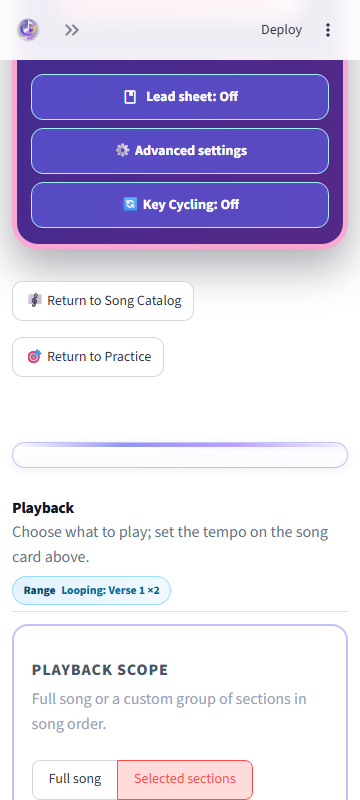
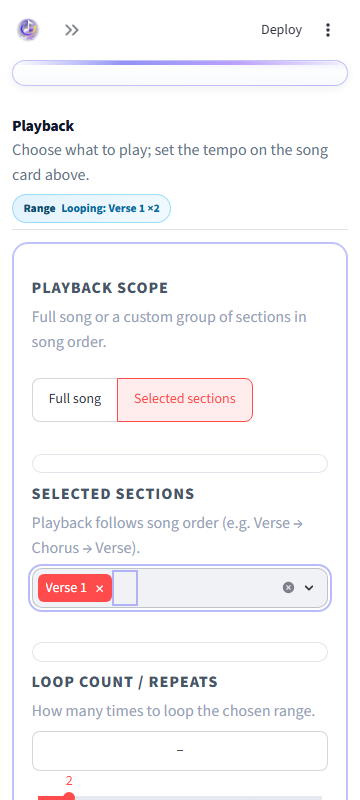
Selectors: 44 px touch targets on phones; Selected sections and refresh behaviour checked
- At max-width 640px the selectable buttons are 2.75rem (about 44 px) tall, the
  comfortable phone touch target the user asked for; desktop stays 2.5rem.
- Browser at 1280, 390 and 360 px: 23/25 per width. Backing's Selected sections
  still offers the song's individual sections (for Say: Intro, Chorus 1, Verse 2,
  Chorus 2, Bridge, Verse 3, Final Chorus).
- The two non-passing gates are refresh persistence of Section Focus and Playback
  scope. Unchanged dev resets both after a refresh as well (and resets the
  Creative entry mode, which this branch now keeps), so it is existing behaviour,
  not a regression from this change.

diff --git a/segmented_selector.py b/segmented_selector.py
@@ -48,6 +48,12 @@ def selector_css(key: str) -> str:
 .st-key-{key} [data-testid="stButtonGroup"] button {{
   min-height: 2.5rem;
 }}
+@media (max-width: 640px) {{
+  /* Comfortable touch targets on phones (about 44 px). */
+  .st-key-{key} [data-testid="stButtonGroup"] button {{
+    min-height: 2.75rem;
+  }}
+}}
 </style>
 """
 
